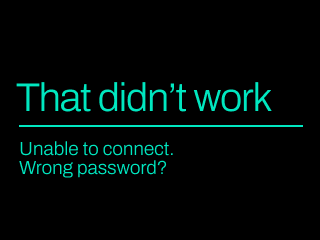
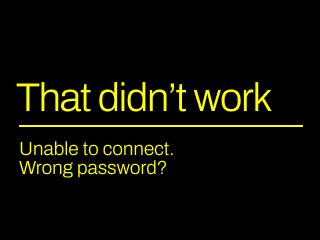
redesign

diff --git a/radio.py b/radio.py
@@ -698,7 +698,7 @@ def display_everything(direction, name, update=False, readied=False):
             label_end = label_start + label_width
 
         # draw line
-        draw.line((mark_start, 217, 159, 202), fill=YELLOW, width=2)
+        #draw.line((mark_start, 217, 159, 202), fill=YELLOW, width=2)
 
         # marker
         draw.rectangle([mark_start, 216, mark_start + bar_width + 1, 240], fill=YELLOW)
